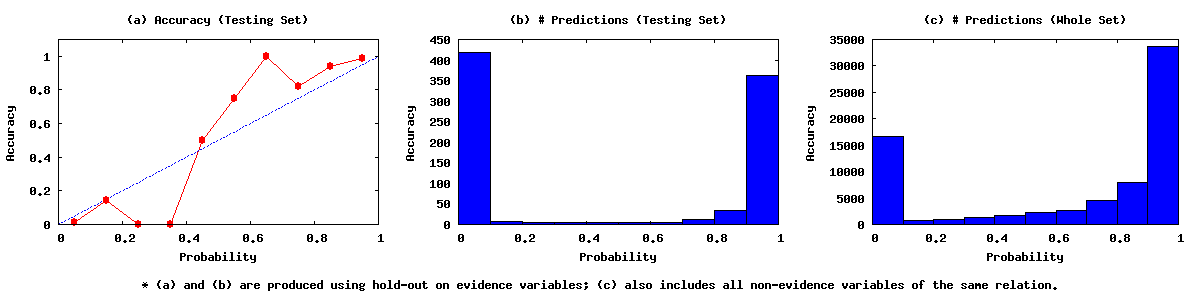
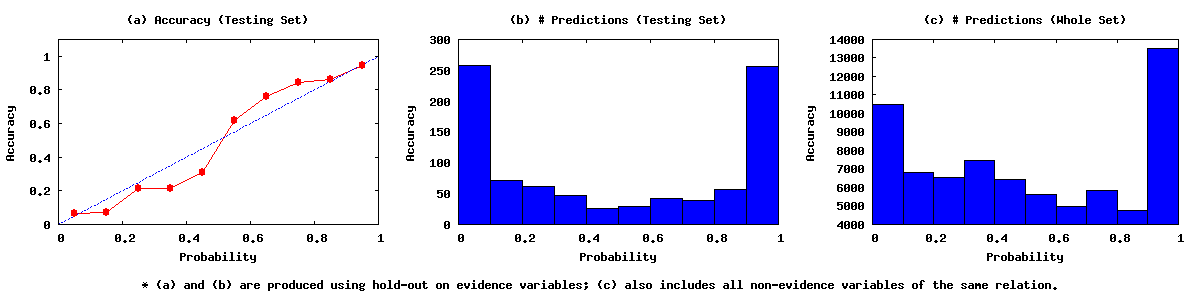
Walkthrough update

diff --git a/doc/walkthrough.md b/doc/walkthrough.md
@@ -412,12 +412,7 @@ for row in fileinput.input():
   # Feature 2: Number of words between the two phrases
   features.add("num_words_between=%s" % len(words_between))
 
-  # Feature 4: POS tags of the two words
-  left_pos_tags = "-".join(obj["sentences.pos_tags"][p1_start:p1_end])
-  right_pos_tags = "-".join(obj["sentences.pos_tags"][p2_start:p2_end])
-  features.add("pos_tags=(%s,%s)" %(left_pos_tags, right_pos_tags))
-
-  # Feature 5: Does the last word (last name) match assuming the words are not equal?
+  # Feature 3: Does the last word (last name) match assuming the words are not equal?
   last_word_left = obj["sentences.words"][p1_end-1]
   last_word_right = obj["sentences.words"][p2_end-1]
   if (last_word_left == last_word_right) and (p1_text != p2_text):
@@ -530,22 +525,15 @@ The calibration plot contains useful information that help you to improve the qu
 Often, it is also useful to look at the *weights* that were learned for features or rules. You can do this by looking at the `mapped_inference_results_weights` table in the database:
 
 {% highlight bash %}
-psql -d deepdive_spouse -c "select * from inference_result_mapped_weights limit 10;" 
+psql -d deepdive_spouse -c "select * from inference_result_mapped_weights limit 5;" 
 {% endhighlight %}
 
-                                           description                                       |      weight       
-    -----------------------------------------------------------------------------------------+-------------------
-     f_has_spouse_features(has_spouse_features.feature=Some(pos_tags=(NNP,NNP)))             | -55.9473277306201
-     f_has_spouse_symmetry()                                                                 |  40.7592407592408
-     f_has_spouse_features(has_spouse_features.feature=Some(pos_tags=(NNP-NNP-NNP,NNP-NNP))) |  10.7051914081208
-     f_has_spouse_features(has_spouse_features.feature=Some(pos_tags=(NNP-NNP,NNP-NNP-NNP))) |  10.3710946266592
-     f_has_spouse_features(has_spouse_features.feature=Some(words_between_bag=and))          |  8.69130869130869
-     f_has_spouse_features(has_spouse_features.feature=Some(words_between=and))              |  8.69130869130869
-     f_has_spouse_features(has_spouse_features.feature=Some(num_words_between=1))            |  3.53484326516511
-     f_has_spouse_features(has_spouse_features.feature=Some(words_between=directs))          |   -2.855061500858
-     f_has_spouse_features(has_spouse_features.feature=Some(words_between_bag=directs))      |   -2.855061500858
-     f_has_spouse_features(has_spouse_features.feature=Some(words_between=-LRB-))            | -2.69667301119316
-
-
+                                      description                                   |      weight       
+    --------------------------------------------------------------------------------+-------------------
+     f_has_spouse_symmetry()                                                        |  36.6633366633367
+     f_has_spouse_features(has_spouse_features.feature=Some(words_between=and))     |  8.29170829170829
+     f_has_spouse_features(has_spouse_features.feature=Some(words_between_bag=and)) |  8.29170829170829
+     f_has_spouse_features(has_spouse_features.feature=Some(num_words_between=1))   |  2.43922518609113
+     f_has_spouse_features(has_spouse_features.feature=Some(num_words_between=43))  | -2.23634552248249
 
 
